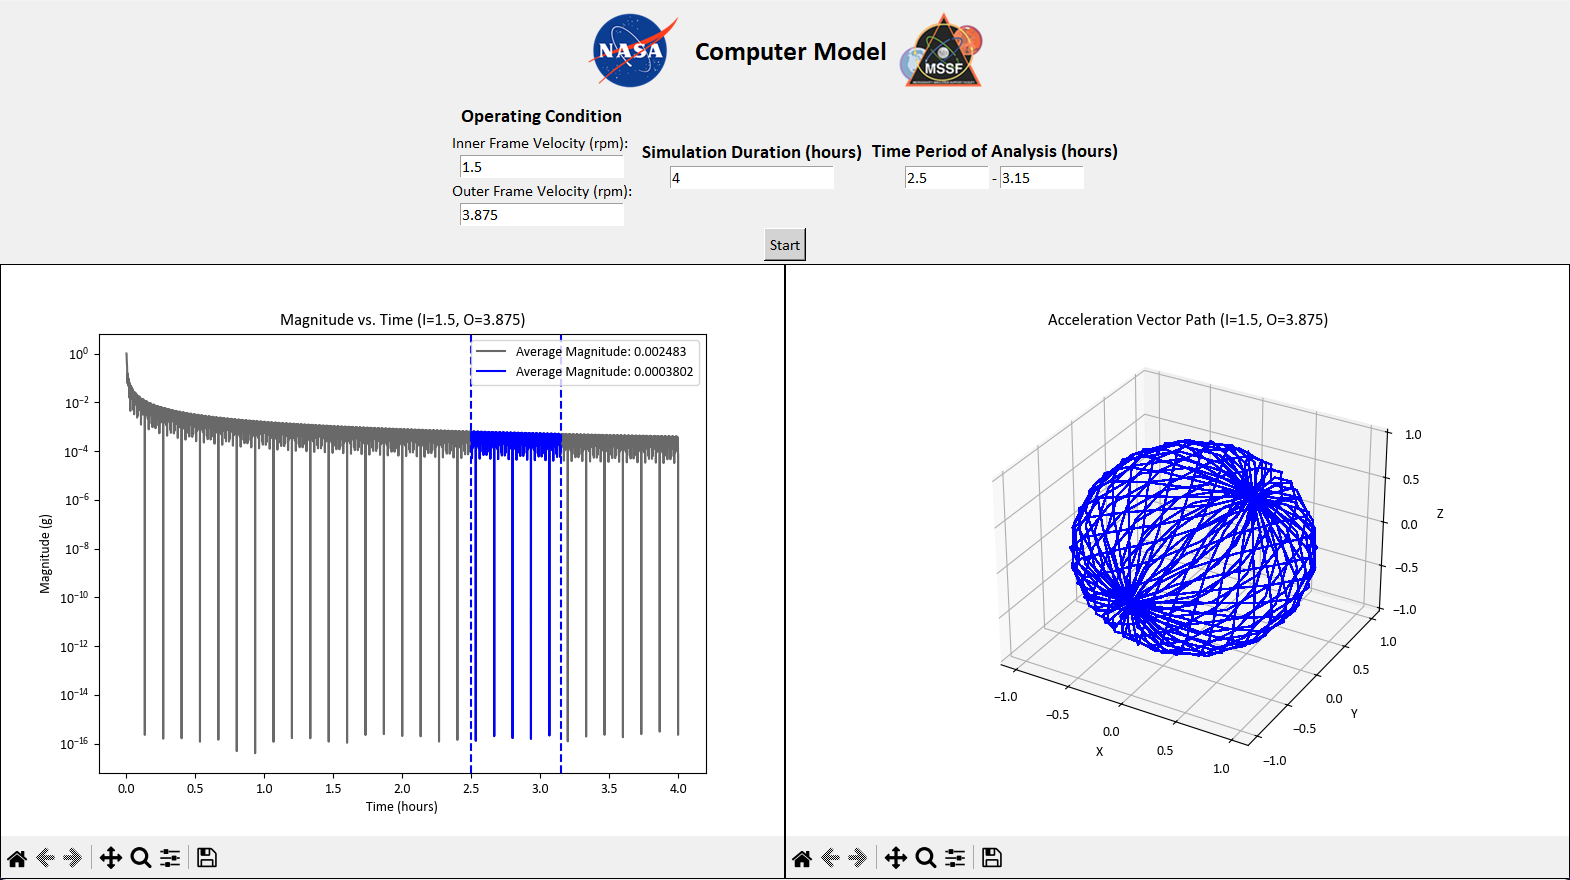
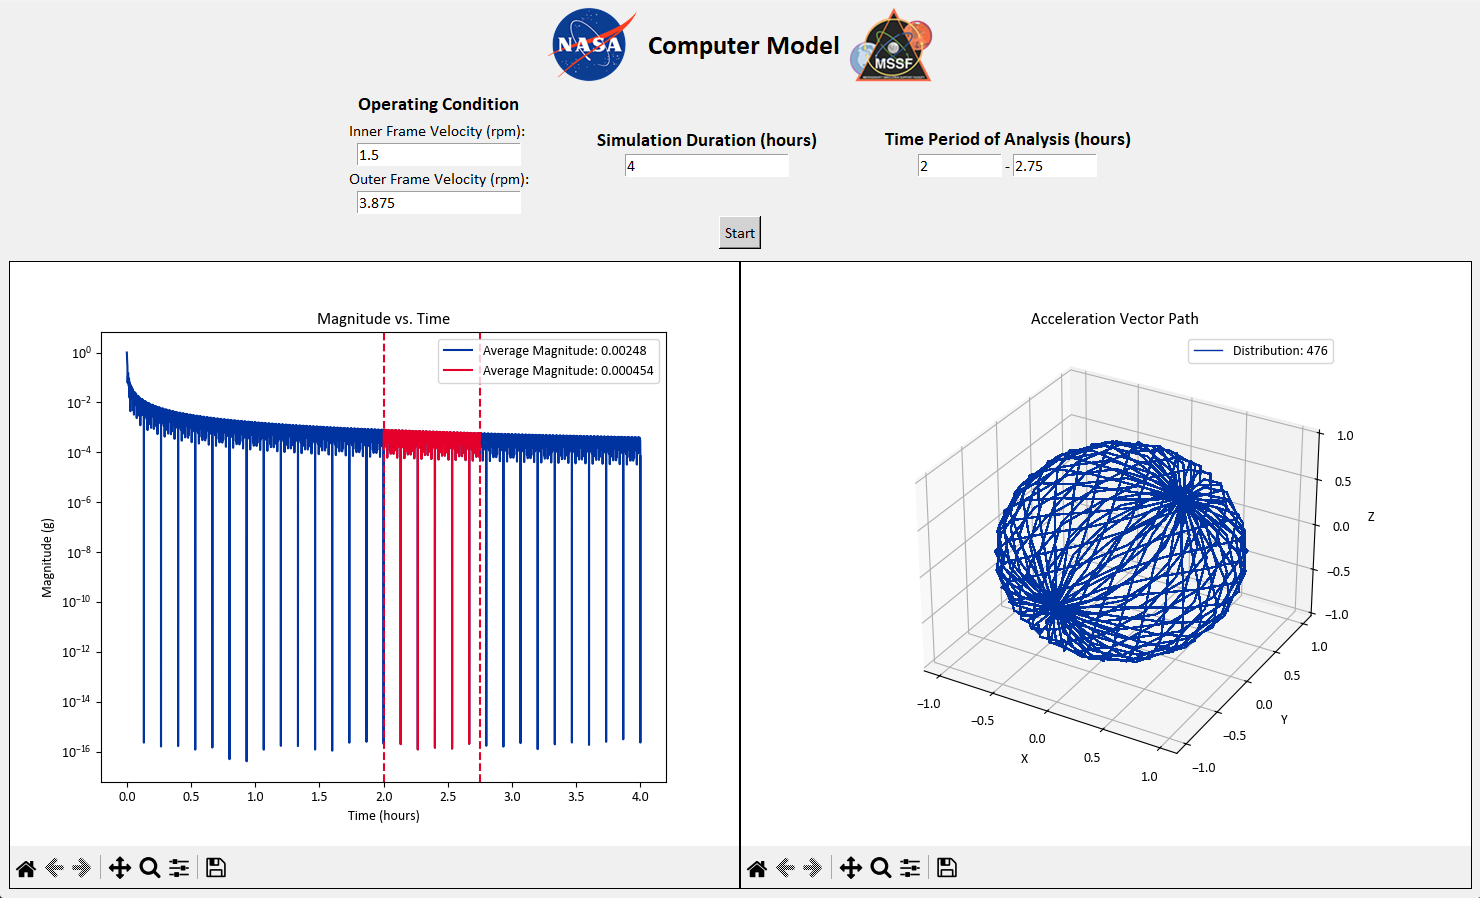
added distribution score

diff --git a/dataCompile.py b/dataCompile.py
@@ -105,6 +105,162 @@ class DataProcessor:
 
         return avgMagFull, avgMagAnalysis
 
+    def getDistribution(self):
+        path = PathVisualization(self.innerV, self.x, self.y, self.z)
+        disScore = path.getDistribution()
+        return disScore
+
+class PathVisualization:
+    def __init__(self, ID, x, y, z, saveFile=''):
+        self.ID = ID
+
+        self.x = x
+        self.y = y
+        self.z = z
+
+        self.pathCoords = list(zip(self.x, self.y, self.z))
+        self.num_points = 1000
+
+        self.saveFile = saveFile
+
+    def __createSphere(self):
+        golden_r = (np.sqrt(5.0) + 1.0) / 2.0            
+        golden_a = (2.0 - golden_r) * (2.0 * np.pi)     
+
+        Xs, Ys, Zs = [], [], []
+        
+        for i in range(self.num_points):
+            ys = 1 - (i / float(self.num_points - 1)) * 2
+            radius = np.sqrt(1 - ys * ys)
+
+            theta = golden_a * i
+
+            xs = np.cos(theta) * radius
+            zs = np.sin(theta) * radius
+
+            Xs.append(xs)
+            Ys.append(ys)
+            Zs.append(zs)
+
+        return(Xs, Ys, Zs)
+
+    def __splitSphere(self, sphereCoords):
+        octants = {'posI':[], 'posII':[], 'posIII':[], 'posIV':[], 'negI':[], 'negII':[], 'negIII':[], 'negIV':[]}
+        
+        for row in sphereCoords:
+            if (row[2] > 0):
+                if (row[1] > 0):
+                    if (row[0] > 0):
+                        octants['posI'].append(row)
+                    else:
+                        octants['posII'].append(row)
+                elif (row[0] > 0):
+                    octants['posIV'].append(row)
+                else: 
+                    octants['posIII'].append(row)
+            else:
+                if (row[1] > 0):
+                    if (row[0] > 0):
+                        octants['negI'].append(row)
+                    else:
+                        octants['negII'].append(row)
+                elif (row[0] > 0):
+                    octants['negIV'].append(row)
+                else:
+                    octants['negIII'].append(row)
+        
+        return(octants)
+
+    def __getPathOctant(self, pathRow):
+        if (pathRow[2] > 0):
+            if (pathRow[1] > 0):
+                if (pathRow[0] > 0):
+                    return 'posI'
+                else:
+                    return 'posII'
+            elif (pathRow[0] > 0):
+                return 'posIV'
+            else: 
+                return 'posIII'
+        else:
+            if (pathRow[1] > 0):
+                if (pathRow[0] > 0):
+                    return 'negI'
+                else:
+                    return 'negII'
+            elif (pathRow[0] > 0):
+                return 'negIV'
+            else:
+                return 'negIII'
+
+    def __getDistanceBetween(self, pathTupleCoords, sphereTupleCoords):
+        pathX, pathY, pathZ = pathTupleCoords
+        sphereX, sphereY, sphereZ = sphereTupleCoords
+
+        diffX = pathX - sphereX
+        diffY = pathY - sphereY
+        diffZ = pathZ - sphereZ
+
+        sumSquares = diffX ** 2 + diffY ** 2 + diffZ ** 2
+        dist = np.sqrt(sumSquares)
+
+        return dist
+
+    def __getDistributionNum(self, sphereCoords):
+        octants = self.__splitSphere(sphereCoords)
+        
+        pathMap = {} 
+        repeatTime = -1
+
+        for pathRow in self.pathCoords:
+            pathOctant = self.__getPathOctant(pathRow)
+            sphereCoordsSplit = octants[pathOctant]
+            distDict = {}
+            repeatTime += 1
+
+            for sphereRow in sphereCoordsSplit:
+                dist = self.__getDistanceBetween(pathRow, sphereRow) 
+                distDict[sphereRow] = dist 
+                    
+            rankedDist = sorted(distDict.items(), key=lambda x:x[1]) 
+            segmentVertices = (rankedDist[0][0], rankedDist[1][0], rankedDist[2][0]) 
+            
+            pathMap[segmentVertices] = pathMap.get(segmentVertices, []) + [repeatTime] 
+        
+        return(len(pathMap))
+
+    def getDistribution(self):
+        Xsphere, Ysphere, Zsphere = self.__createSphere()
+        sphereCoords = list(zip(Xsphere, Ysphere, Zsphere))
+        score = self.__getDistributionNum(sphereCoords)
+        return score
+    
+    def createPathFig(self, innerV, outerV, mode='save', title=True):
+        fig = plt.figure(figsize=plt.figaspect(0.85))
+
+        if title:
+            fig.suptitle(f"Acceleration Vector Path (I={innerV}, O={outerV})")
+
+        ax = fig.add_subplot(1, 1, 1, projection='3d')
+        ax.plot(self.x, self.y, self.z, color='blue', linewidth=1) 
+
+        ax.set_xlabel('X')
+        ax.set_ylabel('Y')
+        ax.set_zlabel('Z')
+
+        ticks = np.arange(-1.0, 1.5, 0.5)
+        ax.set_xticks(ticks)
+        ax.set_yticks(ticks)
+        ax.set_zticks(ticks)
+
+        if mode == 'save':
+            plt.savefig('pathFig.png')
+        elif mode == 'show':
+            plt.show()
+        else:
+            plt.savefig('pathFig.png')
+            plt.show()
+    
     def formatTime(self, time):
         startTime = time[0]
         fTime = []
@@ -142,30 +298,4 @@ class DataProcessor:
             plt.show()
         else:
             plt.savefig('timeMagFig.png')
-            plt.show()
-
-    def createPathFig(self, innerV, outerV, mode='save', title=True):
-        fig = plt.figure(figsize=plt.figaspect(0.85))
-
-        if title:
-            fig.suptitle(f"Acceleration Vector Path (I={innerV}, O={outerV})")
-
-        ax = fig.add_subplot(1, 1, 1, projection='3d')
-        ax.plot(self.x, self.y, self.z, color='blue', linewidth=1) 
-
-        ax.set_xlabel('X')
-        ax.set_ylabel('Y')
-        ax.set_zlabel('Z')
-
-        ticks = np.arange(-1.0, 1.5, 0.5)
-        ax.set_xticks(ticks)
-        ax.set_yticks(ticks)
-        ax.set_zticks(ticks)
-
-        if mode == 'save':
-            plt.savefig('pathFig.png')
-        elif mode == 'show':
-            plt.show()
-        else:
-            plt.savefig('pathFig.png')
             plt.show()

diff --git a/gui.py b/gui.py
@@ -2,6 +2,7 @@ import tkinter as tk
 from tkinter import messagebox
 from matplotlib.backends.backend_tkagg import FigureCanvasTkAgg, NavigationToolbar2Tk
 from dataCompile import DataProcessor
+from dataCompile import PathVisualization
 import matplotlib.pyplot as plt
 from matplotlib import rcParams
 import numpy as np
@@ -80,7 +81,7 @@ class GUI:
         self.submit_button = tk.Button(center_frame, text="Start", command=self.submit, font=font_style, bg="lightgray")
         self.submit_button.grid(row=1, column=0, columnspan=3, pady=1)
 
-        plot_frame = tk.Frame(master, padx=1, pady=1)
+        plot_frame = tk.Frame(master, padx=10, pady=10)
         plot_frame.pack(side=tk.BOTTOM, fill=tk.BOTH, expand=True)
 
         self.magnitude_frame = tk.Frame(plot_frame, borderwidth=1, relief=tk.SOLID)
@@ -145,31 +146,33 @@ class GUI:
                 raise ValueError("Upper and lower bounds must not be equal.")
 
             analysis = DataProcessor(innerV, outerV, maxSeg, startAnalysis, endAnalysis)
+            path_visualization = PathVisualization(innerV, analysis.x, analysis.y, analysis.z)
             xTimeAvg, yTimeAvg, zTimeAvg = analysis._getTimeAvg()
             magnitude = analysis._getMagnitude(xTimeAvg, yTimeAvg, zTimeAvg)
             avgMagSeg, avgMagAnalysis = analysis._getMagSeg(magnitude)
-            self.update_plot(analysis, magnitude, startAnalysis, endAnalysis, avgMagSeg, avgMagAnalysis, innerV, outerV)
+            disScore = analysis.getDistribution()
+            self.update_plot(analysis, magnitude, startAnalysis, endAnalysis, avgMagSeg, avgMagAnalysis, innerV, outerV, disScore, path_visualization)
 
         except ValueError as ve:
             messagebox.showerror("Input Error", str(ve))
         except Exception as e:
             messagebox.showerror("Error", str(e))
 
-    def update_plot(self, analysis, magnitude, startAnalysis, endAnalysis, avgMagSeg, avgMagAnalysis, innerV, outerV):
+    def update_plot(self, analysis, magnitude, startAnalysis, endAnalysis, avgMagSeg, avgMagAnalysis, innerV, outerV, disScore, path_visualization):
         rcParams['font.family'] = 'Calibri' 
 
         self.ax.clear()
-        fTime = analysis.formatTime(analysis.time)
+        fTime = path_visualization.formatTime(analysis.time) 
         
         startIndex = next(i for i, t in enumerate(fTime) if t >= startAnalysis)
         endIndex = next(i for i, t in enumerate(fTime) if t >= endAnalysis)
 
         self.ax.set_yscale('log')
-        self.ax.set_title(f"Magnitude vs. Time (I={innerV}, O={outerV})")
-        self.ax.plot(fTime, magnitude, color='#0032A0', label="Average Magnitude: " + f"{avgMagSeg:.4g}")
+        self.ax.set_title("Magnitude vs. Time")
+        self.ax.plot(fTime, magnitude, color='#0032A0', label="Average Magnitude: " + f"{avgMagSeg:.3g}")
         self.ax.axvline(x=startAnalysis, color='#E4002B', linestyle='--')
         self.ax.axvline(x=endAnalysis, color='#E4002B', linestyle='--')
-        self.ax.plot(fTime[startIndex:endIndex], magnitude[startIndex:endIndex], color='#E4002B', label="Average Magnitude: " + f"{avgMagAnalysis:.4g}")
+        self.ax.plot(fTime[startIndex:endIndex], magnitude[startIndex:endIndex], color='#E4002B', label="Average Magnitude: " + f"{avgMagAnalysis:.3g}")
         self.ax.legend()
         self.ax.set_xlabel('Time (hours)')
         self.ax.set_ylabel('Magnitude (g)')
@@ -185,7 +188,8 @@ class GUI:
         self.path_ax.set_xticks(ticks)
         self.path_ax.set_yticks(ticks)
         self.path_ax.set_zticks(ticks)
-        self.path_ax.set_title(f"Acceleration Vector Path (I={innerV}, O={outerV})")
+        self.path_ax.set_title("Acceleration Vector Path")
+        self.path_ax.legend([f"Distribution: {disScore}"])
 
         self.path_canvas.draw()
 
